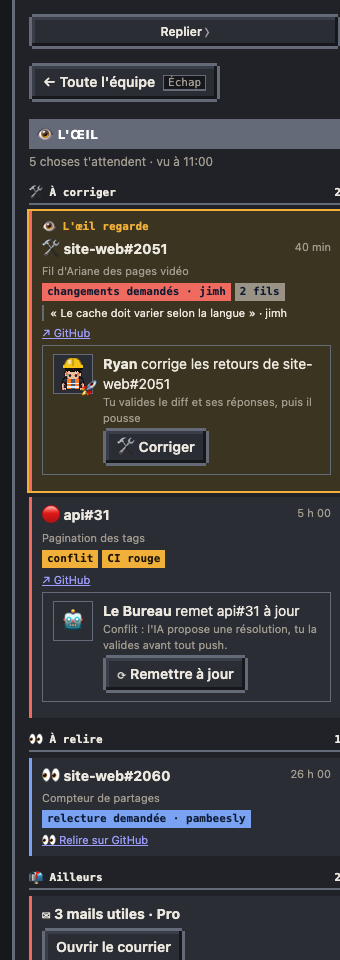
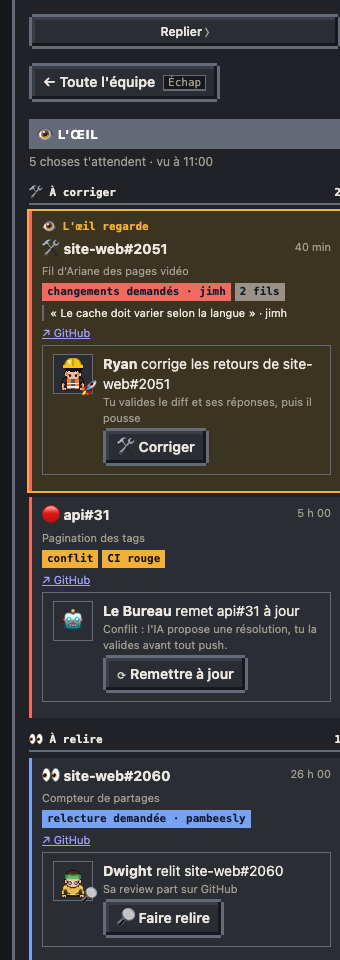
feat(oeil): « 🔎 Faire relire » sur les PR à relire de la fiche de la tour (#307)
## 🎯 Quoi et pourquoi
Pour une PR qu'on te demande de relire, la fiche de l'Œil n'offrait
qu'un lien GitHub. Lancer la revue du Bureau sur cette PR obligeait à
passer par la fiche de la PR ou à attendre le passage du cron. Maquette
validée : https://claude.ai/artifact/TfK72g46d6rmYAjgneBuaq

## 🔧 Changements
- `page/src/69-oeil.js` (`oeCard`) : chaque carte « 👀 À relire » reçoit
le bloc de lancement **🔎 Faire relire** (action `bureau-review`, la
revue à la demande), comme « 🛠 Corriger » au-dessus : l'agent de la
revue, la fenêtre et la carte Kronn, et le bouton grisé « … est dessus
depuis » quand une revue de la PR tourne déjà.
- Seulement sur les relectures prêtes : rien sur les « ⏸ Pas prêtes »
(conflit, CI rouge), où la revue ne pourrait pas approuver.
- Aucun cron ni modèle à toucher : `actions_snapshot.py` met déjà les PR
de l'Œil (tout dépôt) dans `actions.prs`, où la carte Kronn relit le
dépôt et le numéro.
- Le lien de ces cartes passe de « 👀 Relire sur GitHub » à « ↗ GitHub »,
comme sur les autres cartes : un seul bouton de relecture.
- Si le Bureau a déjà relu la PR à son dernier commit, la revue s'arrête
sans rien poster (comportement existant de la revue à la demande) ; les
labels de `review.labels_ignores` ne l'arrêtent pas (#305 : cron
seulement).
- Guide `36-oeil.md`, capture `oeil-fiche` refaite, CHANGELOG.

## 🧪 Tests
- [x] `tests/oeil.test.js` : « 🔎 Faire relire » lié à la PR à relire,
[…]

Changed region(s): [[0.0882, 0.8438, 0.8529, 1.0], [0.9706, 0.9062, 1.0, 0.9375]]

diff --git a/tests/oeil.test.js b/tests/oeil.test.js
@@ -60,17 +60,18 @@ test('clic sur une carte : l\'œil s\'y pose (OE_FOCUS_MS), puis reprend sa rond
   run(`OEIR = null`);
 });
 
-test('fiche : sections dans l\'ordre, une carte par cible, « 🛠 Corriger » et « ⟳ Remettre à jour » liés, pas prêtes sans bouton', () => {
+test('fiche : sections dans l\'ordre, une carte par cible, « 🛠 Corriger », « ⟳ Remettre à jour » et « 🔎 Faire relire » liés, pas prêtes sans bouton', () => {
   run(setup + `const el = t => ({tag: t, attrs: {}, kids: [], style: {}, dataset: {}, html: '', classList: {toggle() {}},
       set innerHTML(v) { this.html = v; }, get innerHTML() { return this.html; }, insertAdjacentHTML(p, h) { this.kids.push({html: h}); },
       setAttribute(k, v) { this.attrs[k] = v; }, getAttribute(k) { return this.attrs[k]; }, appendChild(x) { this.kids.push(x); }, append(...x) { this.kids.push(...x); },
       getContext() { return {drawImage() {}}; }});
     document.createElement = el; MutationObserver = function () { this.observe = () => {}; }; kronnModal = () => {};
-    ACTIONS.fix_pr = true; ACTIONS.rebase = true; OE_CUR = 'f:acme/site#2051';`);
+    ACTIONS.fix_pr = true; ACTIONS.rebase = true; ACTIONS.review = true; OE_CUR = 'f:acme/site#2051';`);
   const f = J(`(() => { const side = {kids: [], appendChild(x) { this.kids.push(x); }}; renderOeil(side); const box = side.kids[0];
     const flat = n => [n, ...(n.kids || []).flatMap(flat)];
     return {head: box.html, seq: box.kids.map(k => k.attrs && k.attrs['data-oek'] ? 'carte ' + k.attrs['data-oek'] + (k.className.includes('oe-grey') ? ' (grise)' : '') + (k.className.includes('oe-now') ? ' (regardée)' : '')
         : (k.html || '').replace(/<[^>]+>/g, ' ').replace(/\\s+/g, ' ').trim()),
+      links: flat(box).filter(n => n.tag === 'a').map(n => n.textContent),
       acts: flat(box).filter(n => n.attrs && n.attrs['data-kronn-action']).map(n => n.attrs['data-kronn-action'] + ' ' + n.attrs['data-kronn-bindings'])}; })()`);
   assert.match(f.head, /4 choses t(&#39;|')attendent/);
   assert.deepEqual(f.seq.slice(0, 9), ['✋ À décider 1', 'carte g:r1', '🛠 À corriger 2', 'carte f:acme/site#2051 (regardée)', 'carte c:acme/api#31',
@@ -79,5 +80,7 @@ test('fiche : sections dans l\'ordre, une carte par cible, « 🛠 Corriger » e
   assert.equal(f.seq[10], '1 autre PR ouverte sans retour à traiter.');
   assert.ok(f.acts.some(a => a.startsWith('bureau-fixpr') && a.includes('acme/site#2051')), f.acts.join(' | '));
   assert.ok(f.acts.some(a => a.startsWith('bureau-rebase') && a.includes('acme/api#31')), f.acts.join(' | '));
+  assert.ok(f.acts.some(a => a.startsWith('bureau-review') && a.includes('other/web#16')), f.acts.join(' | '));  // à relire : la revue à la demande
   assert.ok(!f.acts.some(a => a.includes('other/web#17')), 'une relecture pas prête n\'a pas de bouton');
+  assert.ok(f.links.length && f.links.every(t => t === '↗ GitHub'), f.links.join(' | '));  // un seul libellé de lien, « À relire » compris
 });

diff --git a/page/src/69-oeil.js b/page/src/69-oeil.js
@@ -174,11 +174,14 @@ function oeCard(t,grey){
   if(t.kind==='gate')btn('✋ Décider',()=>select('gate:'+t.g.run));
   if(t.kind==='service')btn('Voir les services',()=>select('services'));
   if(t.kind==='mail')btn('Ouvrir le courrier',()=>select('mail:'+t.a.id));
-  if(p&&p.url){const a=document.createElement('a');a.href=p.url;a.target='_blank';a.rel='noopener';a.textContent=t.kind==='asked'?'👀 Relire sur GitHub':'↗ GitHub';acts.appendChild(a);na++;}
+  if(p&&p.url){const a=document.createElement('a');a.href=p.url;a.target='_blank';a.rel='noopener';a.textContent='↗ GitHub';acts.appendChild(a);na++;}
   if(na)row.appendChild(acts);
   // les boutons Kronn des PR : liés par « owner/dépôt#n » au dataset actions (actions_snapshot.py y ajoute les PR de l'Œil)
   if(!grey&&t.kind==='fix'&&ACTIONS.fix_pr)launchBlock(row,{action:'bureau-fixpr',bind:{id:p.id},verb:'corrige les retours de '+oePrName(p),
     sub:'Tu valides le diff et ses réponses, puis il pousse',label:'🛠 Corriger',title:'Corriger les retours de '+oePrName(p)});
+  // une PR à relire : la revue du Bureau à la demande (review_one), sans attendre le passage du cron
+  if(!grey&&t.kind==='asked'&&ACTIONS.review)launchBlock(row,{action:'bureau-review',bind:{id:p.id},verb:'relit '+oePrName(p),
+    sub:'Sa review part sur GitHub',label:'🔎 Faire relire',title:'Faire relire '+oePrName(p)});
   if(!grey&&(t.kind==='fix'||t.kind==='broken')&&p.conflict&&ACTIONS.rebase)launchBlock(row,{action:'bureau-rebase',bind:{id:p.id},verb:'remet '+oePrName(p)+' à jour',
     sub:'Conflit : l\'IA propose une résolution, tu la valides avant tout push.',label:'⟳ Remettre à jour',title:'Remettre à jour '+oePrName(p)});
   return row;

diff --git a/guide/fonctionnalites/36-oeil.md b/guide/fonctionnalites/36-oeil.md
@@ -40,7 +40,8 @@ Par sections : ✋ À décider, 🛠 À corriger, 👀 À relire, 📬 Ailleurs 
 - La carte que l'œil regarde porte le cadre « 👁 L'œil regarde » et le dernier mot du relecteur ; le cadre suit la ronde.
 - **Clic sur une carte** : l'œil s'y pose 10 secondes sur le plan, puis reprend sa ronde.
 - **🛠 Corriger** sur une de tes PR avec des retours : le workflow « corriger les commentaires d'une PR », qui la monte au [3e](31-retours-bilan.md). **⟳ Remettre à jour** sur une PR en conflit.
-- **✋ Décider** ouvre la validation, **Voir les services** et **Ouvrir le courrier** leurs fiches, **👀 Relire sur GitHub** ou **↗ GitHub** la PR.
+- **🔎 Faire relire** sur une PR qu'on te demande de relire : la revue du Bureau à la demande, tout de suite, sans attendre le passage du cron ; elle prend un bureau de la salle de revue au [2e](28-redaction.md) et sa review part sur GitHub. Grisé quand une revue de la PR tourne déjà ; si le Bureau l'a déjà relue à son dernier commit, la revue s'arrête sans rien poster. Pas sur les relectures « pas prêtes ».
+- **✋ Décider** ouvre la validation, **Voir les services** et **Ouvrir le courrier** leurs fiches, **↗ GitHub** la PR.
 
 ## Le Nazgûl, messager de l'Œil
 

diff --git a/CHANGELOG.md b/CHANGELOG.md
@@ -8,6 +8,7 @@ Format : [Keep a Changelog](https://keepachangelog.com/fr/1.1.0/). Versions : `0
 
 ### Ajouté
 
+- L'Œil : « 🔎 Faire relire » sur chaque PR qu'on te demande de relire lance la revue du Bureau à la demande, sans attendre le cron (grisé quand une revue de la PR tourne déjà). Le lien de ces cartes devient « ↗ GitHub », comme les autres.
 - Revue des PR : le cron ne relit pas les PR qui portent un label du réglage `review.labels_ignores` (défaut `skip-auto-review` ; le pack ajoute par exemple `to-test`, `to-deploy`). Une revue à la demande ou de la chaîne relit la PR quand même.
 - Revue des PR : une review qui approuve n'ouvre plus de fil sur GitHub (un dépôt qui exige tous les fils résolus bloquait le merge pour des pistes facultatives) : ses remarques et conseils passent dans une section « 💡 Facultatif » de la synthèse, une ligne par piste.
 - Le Nazgûl, messager de l'Œil : il part de la tour et pose un parchemin sur ton bureau, le rapport du matin 10 min avant le daily (ce qui est arrivé depuis la veille à 18 h), puis chaque nouveauté pour toi dans la journée (retour sur une de tes PR, relecture demandée) ; scène dans la galerie et ligne du fil.
